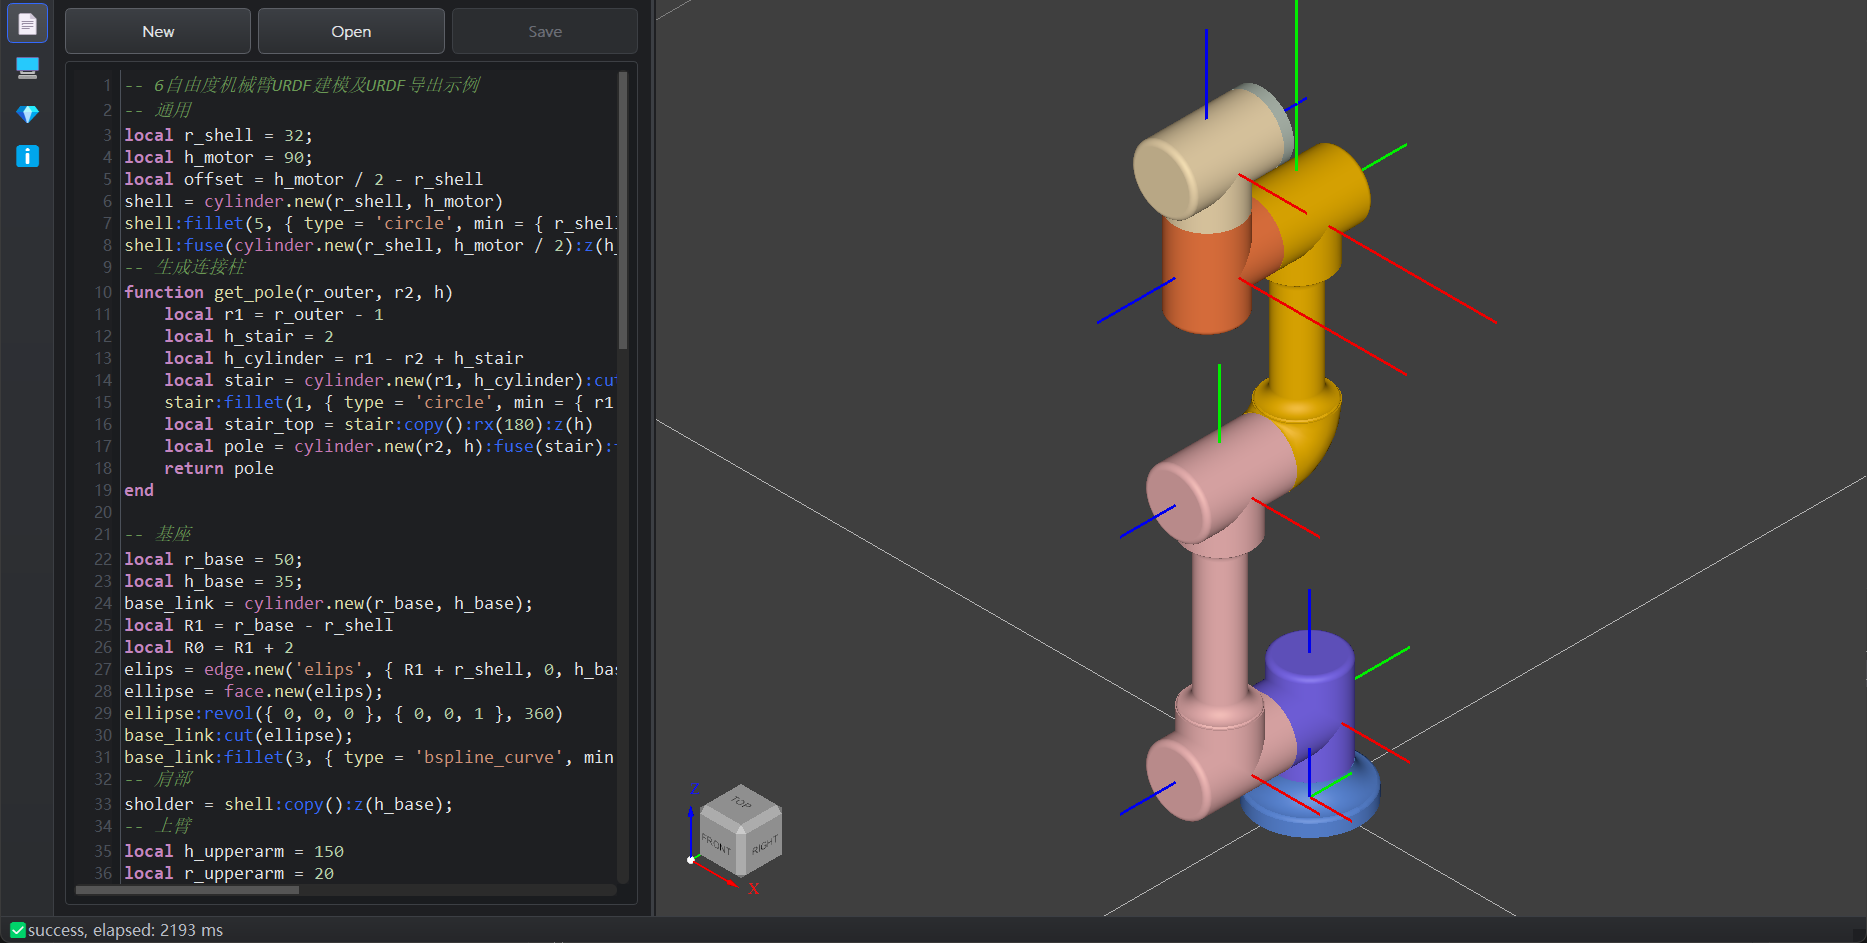
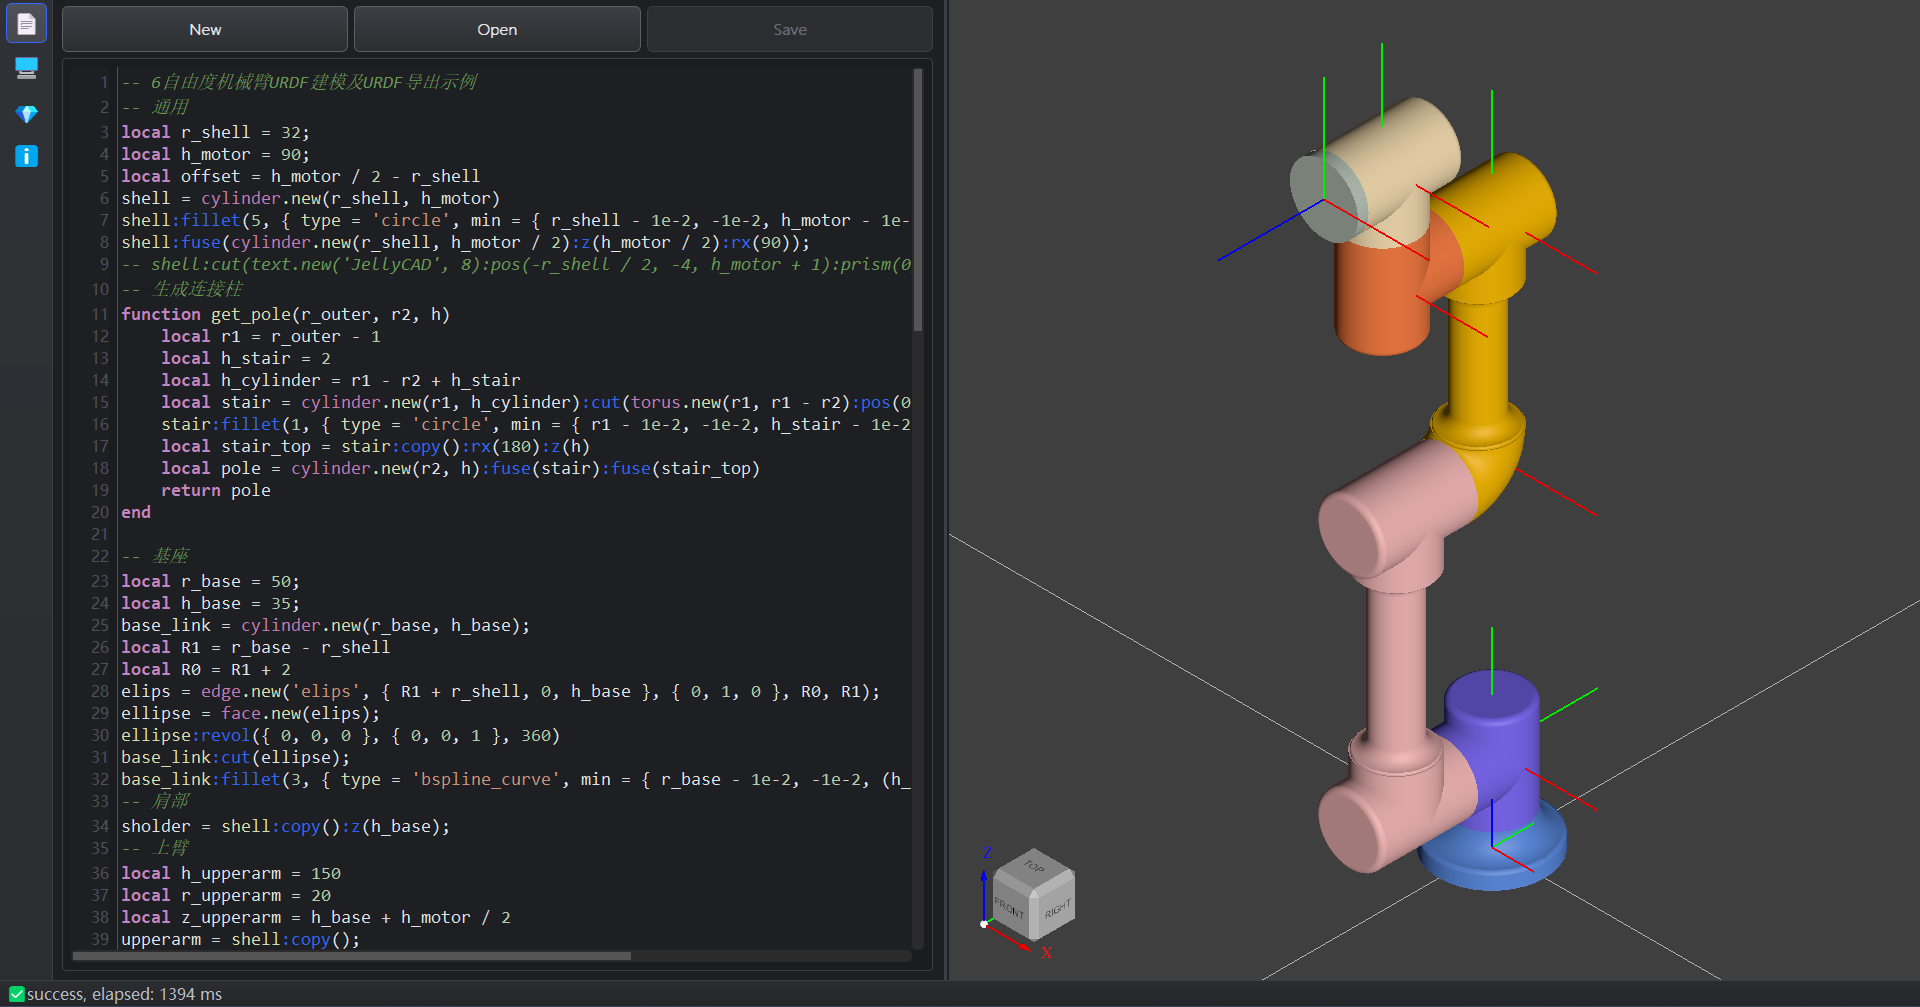
improve doc

diff --git a/doc/guide/functions.md b/doc/guide/functions.md
@@ -32,43 +32,6 @@ show(object_list)   -- 显示对象列表
 
 ---
 
-#### **`export_stl()`** - 导出 STL 文件
-```lua
-export_stl(filename)
-export_stl(filename, option)
-```
-**参数：**
-- `filename` - *string* - 导出文件路径
-- `option` - *table* - 可选参数
-  - `type` - *string* - 'ascii' 或 'binary'
-  - `radian` - *number* - 曲率值（越小三角形越多）
-
-**示例：**
-```lua
-export_stl("model.stl")
-export_stl("model.stl", {type = "binary", radian = 0.01})
-```
-
----
-
-#### **`export_step()`** - 导出 STEP 文件
-```lua
-export_step(filename)
-```
-**参数：**
-- `filename` - *string* - 导出文件路径
-
----
-
-#### **`export_iges()`** - 导出 IGES 文件
-```lua
-export_iges(filename)
-```
-**参数：**
-- `filename` - *string* - 导出文件路径
-
----
-
 ## 📦 形状对象
 
 ### 基础形状
@@ -571,18 +534,20 @@ local h_motor = 90;
 local offset = h_motor / 2 - r_shell
 shell = cylinder.new(r_shell, h_motor)
 shell:fillet(5, { type = 'circle', min = { r_shell - 1e-2, -1e-2, h_motor - 1e-2 } });
-shell:fuse(cylinder.new(r_shell, h_motor / 2):z(h_motor / 2):rx(90)); -- 电机外壳
+shell:fuse(cylinder.new(r_shell, h_motor / 2):z(h_motor / 2):rx(90));
+-- shell:cut(text.new('JellyCAD', 8):pos(-r_shell / 2, -4, h_motor + 1):prism(0, 0, -2)) -- 关节盖刻字(操作很耗时)
 -- 生成连接柱
 function get_pole(r_outer, r2, h)
     local r1 = r_outer - 1
     local h_stair = 2
     local h_cylinder = r1 - r2 + h_stair
     local stair = cylinder.new(r1, h_cylinder):cut(torus.new(r1, r1 - r2):pos(0, 0, h_cylinder))
-    stair:fillet(1, { type = 'circle', min = { r1 - 1e-2, -1e-2, h_stair - 1e-2 } }); -- 底部圆柱滑梯台
-    local stair_top = stair:copy():rx(180):z(h) -- 顶部圆柱滑梯台
+    stair:fillet(1, { type = 'circle', min = { r1 - 1e-2, -1e-2, h_stair - 1e-2 } });
+    local stair_top = stair:copy():rx(180):z(h)
     local pole = cylinder.new(r2, h):fuse(stair):fuse(stair_top)
     return pole
 end
+
 -- 基座
 local r_base = 50;
 local h_base = 35;
@@ -619,11 +584,11 @@ local z_wrist1 = z_forearm + h_forearm + h_motor + r_shell
 wrist1 = shell:copy():rot(180, 0, 0):pos(0, -h_motor - offset, z_forearm + h_forearm + h_motor + r_shell)
 -- 手腕2
 local z_wrist2 = z_forearm + h_forearm + 2 * h_motor - offset
-wrist2 = shell:copy():rot(90, 0, 0):pos(0, -h_motor / 2 - offset, z_wrist2)
+wrist2 = shell:copy():rot(90, 0, 180):pos(0, r_shell - 2 * h_motor, z_wrist2)
 -- 手腕3
 local h_flank = 10
-wrist3 = cylinder.new(r_shell, h_flank):rot(90, 0, 0):pos(0, -h_motor / 2 - offset + h_flank, z_wrist2)
--- 毫米单位转为米，生成URDF，设置连杆质量
+wrist3 = cylinder.new(r_shell, h_flank):rot(90, 0, 0):pos(0, r_shell - 2 * h_motor, z_wrist2)
+-- 毫米单位转为米，生成URDF
 base_link:scale(1e-3):color('#6495ED'):mass(0.1)
 sholder:scale(1e-3):color('#8470FF'):mass(0.4)
 upperarm:scale(1e-3):color('#FFC1C1'):mass(1)
@@ -631,21 +596,32 @@ forearm:scale(1e-3):color('#FFC100'):mass(0.8)
 wrist1:scale(1e-3):color('#FF8247'):mass(0.4)
 wrist2:scale(1e-3):color('#FFE7BA'):mass(0.4)
 wrist3:scale(1e-3):color('#C1CDC1'):mass(0.1)
--- 设置关节坐标轴位置
-joint_axes1 = axes.new({ 0, 0, z_upperarm * 1e-3, 0, 0, 0 }, 0.1)
-joint_axes2 = axes.new({ 0, -h_motor * 1e-3, z_upperarm * 1e-3, 90, 0, 0 }, 0.1)
-joint_axes3 = axes.new({ 0, -h_motor * 1e-3, z_forearm * 1e-3, 90, 0, 0 }, 0.1)
-joint_axes4 = axes.new({ 0, -offset * 1e-3, (z_wrist1 - h_motor / 2) * 1e-3, 90, 0, 0 }, 0.2)
-joint_axes5 = axes.new({ 0, -(h_motor + offset) * 1e-3, (z_wrist1 - h_motor / 2) * 1e-3, 0, 0, 0 }, 0.2)
-joint_axes6 = axes.new({ 0, -(h_motor + offset) * 1e-3, (z_wrist2) * 1e-3, -90, 0, 0 }, 0.1)
--- 生成关节
-joint1 = joint.new("joint1", joint_axes1, "revolute")
-joint2 = joint.new("joint2", joint_axes2, "revolute")
-joint3 = joint.new("joint3", joint_axes3, "revolute")
-joint4 = joint.new("joint4", joint_axes4, "revolute")
-joint5 = joint.new("joint5", joint_axes5, "revolute")
-joint6 = joint.new("joint6", joint_axes6, "revolute")
--- 生成连杆
+local d1 = z_upperarm * 1e-3
+local a2 = (h_upperarm + h_motor) * 1e-3
+local a3 = (h_forearm + h_motor / 2 + r_shell) * 1e-3
+local d4 = (h_motor + offset) * 1e-3
+local d5 = h_motor * 1e-3
+local d6 = (h_motor / 2 + h_flank) * 1e-3
+joint_axes1 = axes.new({ 0, 0, d1, 0, 0, 0 }, 0.1)
+joint_axes2 = joint_axes1:copy():move({ 0, 0, 0, 90, 0, 0 })
+joint_axes3 = joint_axes2:copy():move({ 0, a2, 0, 0, 0, 0 })
+joint_axes4 = joint_axes3:copy():move({ 0, a3, 0, 0, 0, 0 })
+joint_axes5 = joint_axes4:copy():move({ 0, 0, d4, -90, 0, 0 })
+joint_axes6 = joint_axes5:copy():move({ 0, 0, d5, 90, 0, 0 })
+joint_tool = joint_axes6:copy():move({ 0, 0, d6, 0, 0, 0 })
+j1_limit = { lower = -6.28, upper = 6.28, velocity = 3.14, effort = 9 }
+j2_limit = { lower = -6.28, upper = 6.28, velocity = 3.14, effort = 9 }
+j3_limit = { lower = -3.14, upper = 3.14, velocity = 3.14, effort = 9 }
+j4_limit = { lower = -6.28, upper = 6.28, velocity = 3.14, effort = 3 }
+j5_limit = { lower = -6.28, upper = 6.28, velocity = 3.14, effort = 3 }
+j6_limit = { lower = -6.28, upper = 6.28, velocity = 3.14, effort = 3 }
+joint1 = joint.new("joint1", joint_axes1, "revolute", j1_limit)
+joint2 = joint.new("joint2", joint_axes2, "revolute", j2_limit)
+joint3 = joint.new("joint3", joint_axes3, "revolute", j3_limit)
+joint4 = joint.new("joint4", joint_axes4, "revolute", j4_limit)
+joint5 = joint.new("joint5", joint_axes5, "revolute", j5_limit)
+joint6 = joint.new("joint6", joint_axes6, "revolute", j6_limit)
+jointT = joint.new("jointT", joint_tool, "fixed")
 urdf = link.new("base_link", base_link)
 link1 = link.new("link1", sholder)
 link2 = link.new("link2", upperarm)
@@ -653,14 +629,12 @@ link3 = link.new("link3", forearm)
 link4 = link.new("link4", wrist1)
 link5 = link.new("link5", wrist2)
 link6 = link.new("link6", wrist3)
--- 配置URDF
+link_tool = link.new("link_tool", shape.new())
 urdf:add(joint1):next(link1):add(joint2):next(link2):add(joint3):next(link3):add(joint4):next(link4):add(joint5):next(
-    link5):add(joint6):next(link6)
--- 显示模型和坐标轴
+    link5):add(joint6):next(link6):add(jointT):next(link_tool)
 show({ base_link, sholder, upperarm, forearm, wrist1, wrist2, wrist3 })
-show({ joint_axes1, joint_axes2, joint_axes3, joint_axes4, joint_axes5, joint_axes6 })
--- 导出URDF
-urdf:export({ name = 'myrobot', path = 'd:/' })
+show({ joint_axes1, joint_axes2, joint_axes3, joint_axes4, joint_axes5, joint_axes6, joint_tool })
+urdf:export({ name = 'myrobot', path = 'd:/', ros_version = 2 })
 ```
 
 <img src="../example_urdf.png" alt="example_urdf" style="zoom:33%;" />
@@ -677,6 +651,8 @@ colcon build --symlink-install
 source install/setup.bash
 ros2 launch urdf_launch display.launch.py urdf_package:=myrobot urdf_package_path:=urdf/myrobot.urdf
 ```
+
+<img src="../example_ros2.png" alt="example_ros2" style="zoom:33%;" />
 
 ## 💡 使用示例
 

diff --git a/README.md b/README.md
@@ -221,6 +221,7 @@ s = shape.new('model.stl')  -- 导入 STL 或 STEP 文件
 | `link:add(joint)` | 添加关节, 返回关节对象 |
 | `link:export(options)` | 导出 URDF/Mujoco 格式文件 |
 
+> 详细的 API 参考请参考 [JellyCAD 帮助文档](https://jelatine.github.io/JellyCAD/guide/functions.html)。
 
 ## 💡 示例代码
 
@@ -362,10 +363,10 @@ local z_wrist1 = z_forearm + h_forearm + h_motor + r_shell
 wrist1 = shell:copy():rot(180, 0, 0):pos(0, -h_motor - offset, z_forearm + h_forearm + h_motor + r_shell)
 -- 手腕2
 local z_wrist2 = z_forearm + h_forearm + 2 * h_motor - offset
-wrist2 = shell:copy():rot(90, 0, 0):pos(0, -h_motor / 2 - offset, z_wrist2)
+wrist2 = shell:copy():rot(90, 0, 180):pos(0, r_shell - 2 * h_motor, z_wrist2)
 -- 手腕3
 local h_flank = 10
-wrist3 = cylinder.new(r_shell, h_flank):rot(90, 0, 0):pos(0, -h_motor / 2 - offset + h_flank, z_wrist2)
+wrist3 = cylinder.new(r_shell, h_flank):rot(90, 0, 0):pos(0, r_shell - 2 * h_motor, z_wrist2)
 -- 毫米单位转为米，生成URDF
 base_link:scale(1e-3):color('#6495ED'):mass(0.1)
 sholder:scale(1e-3):color('#8470FF'):mass(0.4)
@@ -374,18 +375,32 @@ forearm:scale(1e-3):color('#FFC100'):mass(0.8)
 wrist1:scale(1e-3):color('#FF8247'):mass(0.4)
 wrist2:scale(1e-3):color('#FFE7BA'):mass(0.4)
 wrist3:scale(1e-3):color('#C1CDC1'):mass(0.1)
-joint_axes1 = axes.new({ 0, 0, z_upperarm * 1e-3, 0, 0, 0 }, 0.1)
-joint_axes2 = axes.new({ 0, -h_motor * 1e-3, z_upperarm * 1e-3, 90, 0, 0 }, 0.1)
-joint_axes3 = axes.new({ 0, -h_motor * 1e-3, z_forearm * 1e-3, 90, 0, 0 }, 0.1)
-joint_axes4 = axes.new({ 0, -offset * 1e-3, (z_wrist1 - h_motor / 2) * 1e-3, 90, 0, 0 }, 0.2)
-joint_axes5 = axes.new({ 0, -(h_motor + offset) * 1e-3, (z_wrist1 - h_motor / 2) * 1e-3, 0, 0, 0 }, 0.2)
-joint_axes6 = axes.new({ 0, -(h_motor + offset) * 1e-3, (z_wrist2) * 1e-3, -90, 0, 0 }, 0.1)
-joint1 = joint.new("joint1", joint_axes1, "revolute")
-joint2 = joint.new("joint2", joint_axes2, "revolute")
-joint3 = joint.new("joint3", joint_axes3, "revolute")
-joint4 = joint.new("joint4", joint_axes4, "revolute")
-joint5 = joint.new("joint5", joint_axes5, "revolute")
-joint6 = joint.new("joint6", joint_axes6, "revolute")
+local d1 = z_upperarm * 1e-3
+local a2 = (h_upperarm + h_motor) * 1e-3
+local a3 = (h_forearm + h_motor / 2 + r_shell) * 1e-3
+local d4 = (h_motor + offset) * 1e-3
+local d5 = h_motor * 1e-3
+local d6 = (h_motor / 2 + h_flank) * 1e-3
+joint_axes1 = axes.new({ 0, 0, d1, 0, 0, 0 }, 0.1)
+joint_axes2 = joint_axes1:copy():move({ 0, 0, 0, 90, 0, 0 })
+joint_axes3 = joint_axes2:copy():move({ 0, a2, 0, 0, 0, 0 })
+joint_axes4 = joint_axes3:copy():move({ 0, a3, 0, 0, 0, 0 })
+joint_axes5 = joint_axes4:copy():move({ 0, 0, d4, -90, 0, 0 })
+joint_axes6 = joint_axes5:copy():move({ 0, 0, d5, 90, 0, 0 })
+joint_tool = joint_axes6:copy():move({ 0, 0, d6, 0, 0, 0 })
+j1_limit = { lower = -6.28, upper = 6.28, velocity = 3.14, effort = 9 }
+j2_limit = { lower = -6.28, upper = 6.28, velocity = 3.14, effort = 9 }
+j3_limit = { lower = -3.14, upper = 3.14, velocity = 3.14, effort = 9 }
+j4_limit = { lower = -6.28, upper = 6.28, velocity = 3.14, effort = 3 }
+j5_limit = { lower = -6.28, upper = 6.28, velocity = 3.14, effort = 3 }
+j6_limit = { lower = -6.28, upper = 6.28, velocity = 3.14, effort = 3 }
+joint1 = joint.new("joint1", joint_axes1, "revolute", j1_limit)
+joint2 = joint.new("joint2", joint_axes2, "revolute", j2_limit)
+joint3 = joint.new("joint3", joint_axes3, "revolute", j3_limit)
+joint4 = joint.new("joint4", joint_axes4, "revolute", j4_limit)
+joint5 = joint.new("joint5", joint_axes5, "revolute", j5_limit)
+joint6 = joint.new("joint6", joint_axes6, "revolute", j6_limit)
+jointT = joint.new("jointT", joint_tool, "fixed")
 urdf = link.new("base_link", base_link)
 link1 = link.new("link1", sholder)
 link2 = link.new("link2", upperarm)
@@ -393,12 +408,15 @@ link3 = link.new("link3", forearm)
 link4 = link.new("link4", wrist1)
 link5 = link.new("link5", wrist2)
 link6 = link.new("link6", wrist3)
+link_tool = link.new("link_tool", shape.new())
 urdf:add(joint1):next(link1):add(joint2):next(link2):add(joint3):next(link3):add(joint4):next(link4):add(joint5):next(
-    link5):add(joint6):next(link6)
+    link5):add(joint6):next(link6):add(jointT):next(link_tool)
 show({ base_link, sholder, upperarm, forearm, wrist1, wrist2, wrist3 })
-show({ joint_axes1, joint_axes2, joint_axes3, joint_axes4, joint_axes5, joint_axes6 })
-urdf:export({ name = 'myrobot', path = 'd:/', ros_version=2 })
+show({ joint_axes1, joint_axes2, joint_axes3, joint_axes4, joint_axes5, joint_axes6, joint_tool })
+urdf:export({ name = 'myrobot', path = 'd:/', ros_version = 2 })
 ```
+
+![example_urdf](doc/example_urdf.png)
 
 ROS2使用方法
 
@@ -412,6 +430,9 @@ colcon build --symlink-install
 source install/setup.bash
 ros2 launch urdf_launch display.launch.py urdf_package:=myrobot urdf_package_path:=urdf/myrobot.urdf
 ```
+
+![example_ros2](doc/example_ros2.png)
+
 ROS1使用方法
 
 ```bash
@@ -424,9 +445,6 @@ catkin_make
 source devel/setup.bash
 roslaunch urdf_tutorial display.launch model:='$(find myrobot)/urdf/myrobot.urdf'
 ```
-
-
-![example_urdf](doc/example_urdf.png)
 
 ## 🤝 贡献
 
@@ -456,9 +474,3 @@ roslaunch urdf_tutorial display.launch model:='$(find myrobot)/urdf/myrobot.urdf
 - [拓扑边操作](https://blog.csdn.net/s634772208/article/details/130101544)
 - [边缘类型判断](https://www.cnblogs.com/occi/p/14619592.html)
 - [实体创建方法](https://developer.aliyun.com/article/235775)
-
----
-
-<div align="center">
-  Made with ❤ by JellyCAD Contributors
-</div>

diff --git a/doc/guide/robot_develop.md b/doc/guide/robot_develop.md
@@ -330,6 +330,76 @@ with mujoco.viewer.launch_passive(model, data) as viewer:
         viewer.sync()
 ```
 
+## pybullet 使用 URDF
+
+```python
+import pybullet as p
+import pybullet_data
+import time
+
+# 连接到PyBullet物理引擎（使用GUI模式）
+physics_client = p.connect(p.GUI)
+# 设置额外的搜索路径
+p.setAdditionalSearchPath(pybullet_data.getDataPath())
+# 设置重力
+p.setGravity(0, 0, -9.8)
+# 加载地面
+plane_id = p.loadURDF("plane.urdf")
+# 加载机械臂URDF文件
+robot_id = p.loadURDF(
+    "myrobot/urdf/myrobot.urdf", basePosition=[0, 0, 0], useFixedBase=True
+)
+# 获取机械臂关节信息
+num_joints = p.getNumJoints(robot_id)
+print(f"机械臂关节数量: {num_joints}")
+# 打印每个关节的信息
+print("\n关节信息:")
+joint_indices = []
+for i in range(num_joints):
+    joint_info = p.getJointInfo(robot_id, i)
+    joint_name = joint_info[1].decode("utf-8")
+    joint_type = joint_info[2]
+    print(f"关节 {i}: {joint_name}, 类型: {joint_type}")
+    # 只记录可旋转关节(type=0)
+    if joint_type == p.JOINT_REVOLUTE:
+        joint_indices.append(i)
+print(f"\n可控制关节索引: {joint_indices}")
+# 设置相机视角
+p.resetDebugVisualizerCamera(
+    cameraDistance=1.5, cameraYaw=45, cameraPitch=-30, cameraTargetPosition=[0, 0, 0.5]
+)
+# 添加调试滑块来控制每个关节
+sliders = []
+for joint_idx in joint_indices:
+    joint_info = p.getJointInfo(robot_id, joint_idx)
+    joint_name = joint_info[1].decode("utf-8")
+    lower_limit = joint_info[8]
+    upper_limit = joint_info[9]
+    slider = p.addUserDebugParameter(joint_name, lower_limit, upper_limit, 0)  # 初始值
+    sliders.append(slider)
+print("\n仿真开始！使用右侧滑块控制机械臂关节")
+print("按 Ctrl+C 退出仿真")
+# 仿真循环
+try:
+    while True:
+        # 读取滑块值并设置关节角度
+        for i, (joint_idx, slider) in enumerate(zip(joint_indices, sliders)):
+            target_position = p.readUserDebugParameter(slider)
+            p.setJointMotorControl2(
+                robot_id,
+                joint_idx,
+                p.POSITION_CONTROL,
+                targetPosition=target_position,
+                force=100,
+            )
+        # 执行一步仿真
+        p.stepSimulation()
+        time.sleep(1.0 / 240.0)  # 240Hz仿真频率
+except KeyboardInterrupt:
+    print("\n仿真结束")
+    p.disconnect()
+```
+
 ## 高级技巧
 
 ### 1. 使用辅助函数简化建模

diff --git a/doc/index.md b/doc/index.md
@@ -15,17 +15,17 @@ hero:
       link: https://github.com/Jelatine/JellyCAD/releases
 
 features:
-  - title: 跨平台支持
+  - title: 🌐跨平台支持
     details: 兼容 Windows、Linux 和 macOS 系统
-  - title: 脚本编程
+  - title: 📝脚本编程
     details: 使用简洁的 Lua 语言构造三维模型
-  - title: 机器人开发
+  - title: 🤖机器人开发
     details: 支持导出URDF和MJCF，方便ROS/ROS2和mujoco开发
-  - title: 多格式导出
+  - title: 💾多格式导出
     details: 支持导出 STL、STEP、IGES 格式文件
-  - title: 可视化编辑
+  - title: 🎨可视化编辑
     details: 提供图形界面和命令行两种使用模式
-  - title: 丰富的操作
+  - title: 🔧丰富的操作
     details: 支持布尔运算、圆角、倒角、拉伸等多种建模操作
 ---
 

diff --git a/doc/guide/interaction.md b/doc/guide/interaction.md
@@ -12,11 +12,7 @@ JellyCAD 的主界面分为四个主要区域：
 位于窗口顶部，显示当前文件名和程序标题。包含窗口控制按钮（最小化、最大化、关闭）。
 
 ### 2. 侧边工具栏（蓝色区域）
-位于窗口左侧，提供快速访问各种工具和功能的图标按钮：
-- **新建文件** - 创建新的脚本项目
-- **打开文件** - 打开现有的 Lua 脚本
-- **保存文件** - 保存当前编辑的脚本
-- **其他工具** - 包括设置、帮助等功能
+位于窗口左侧，提供选择工作区功能的按钮：编辑器、终端、形状信息、软件信息
 
 ### 3. 工作区（黄色区域）
 位于窗口中部左侧，包含以下功能：
